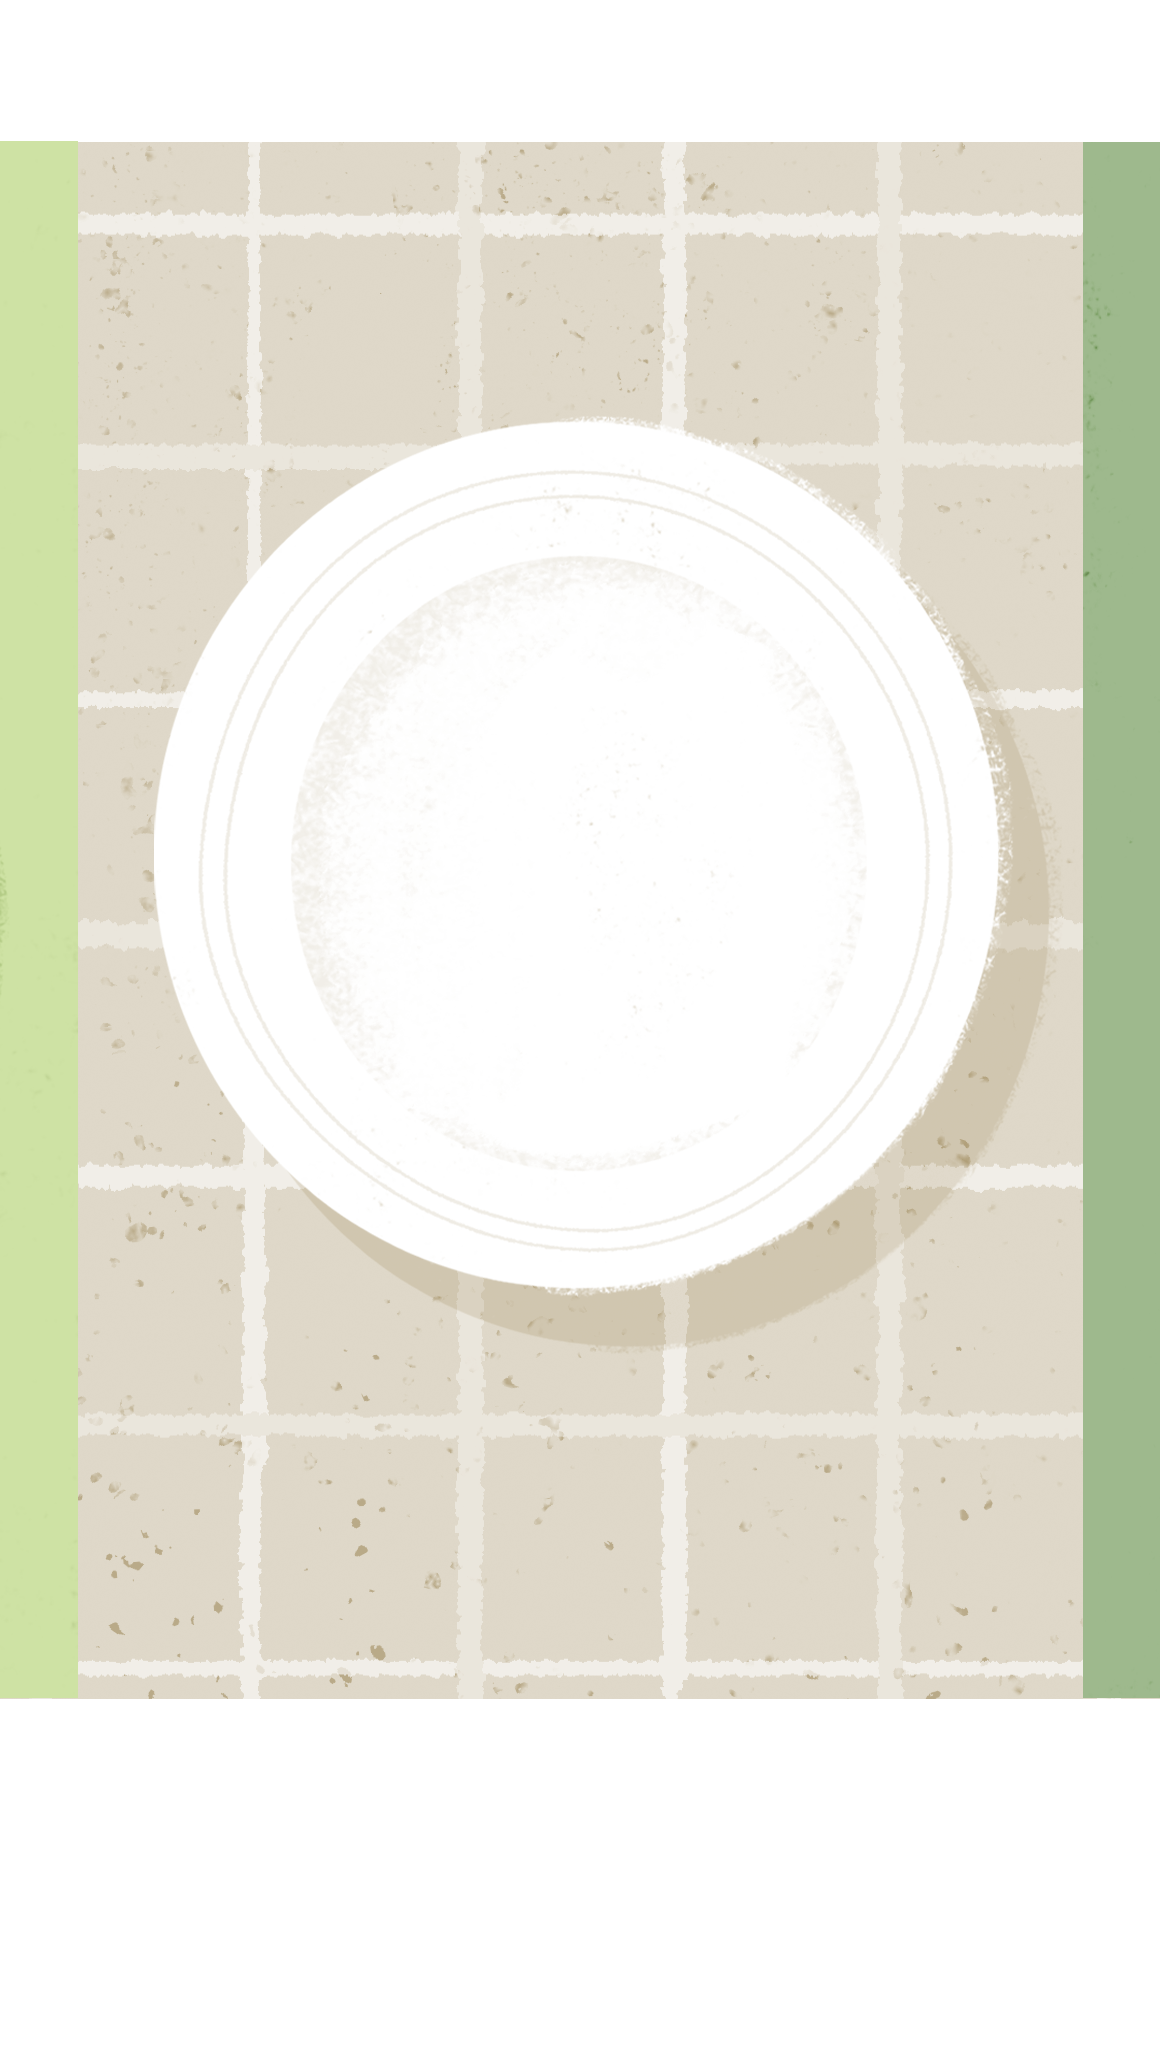
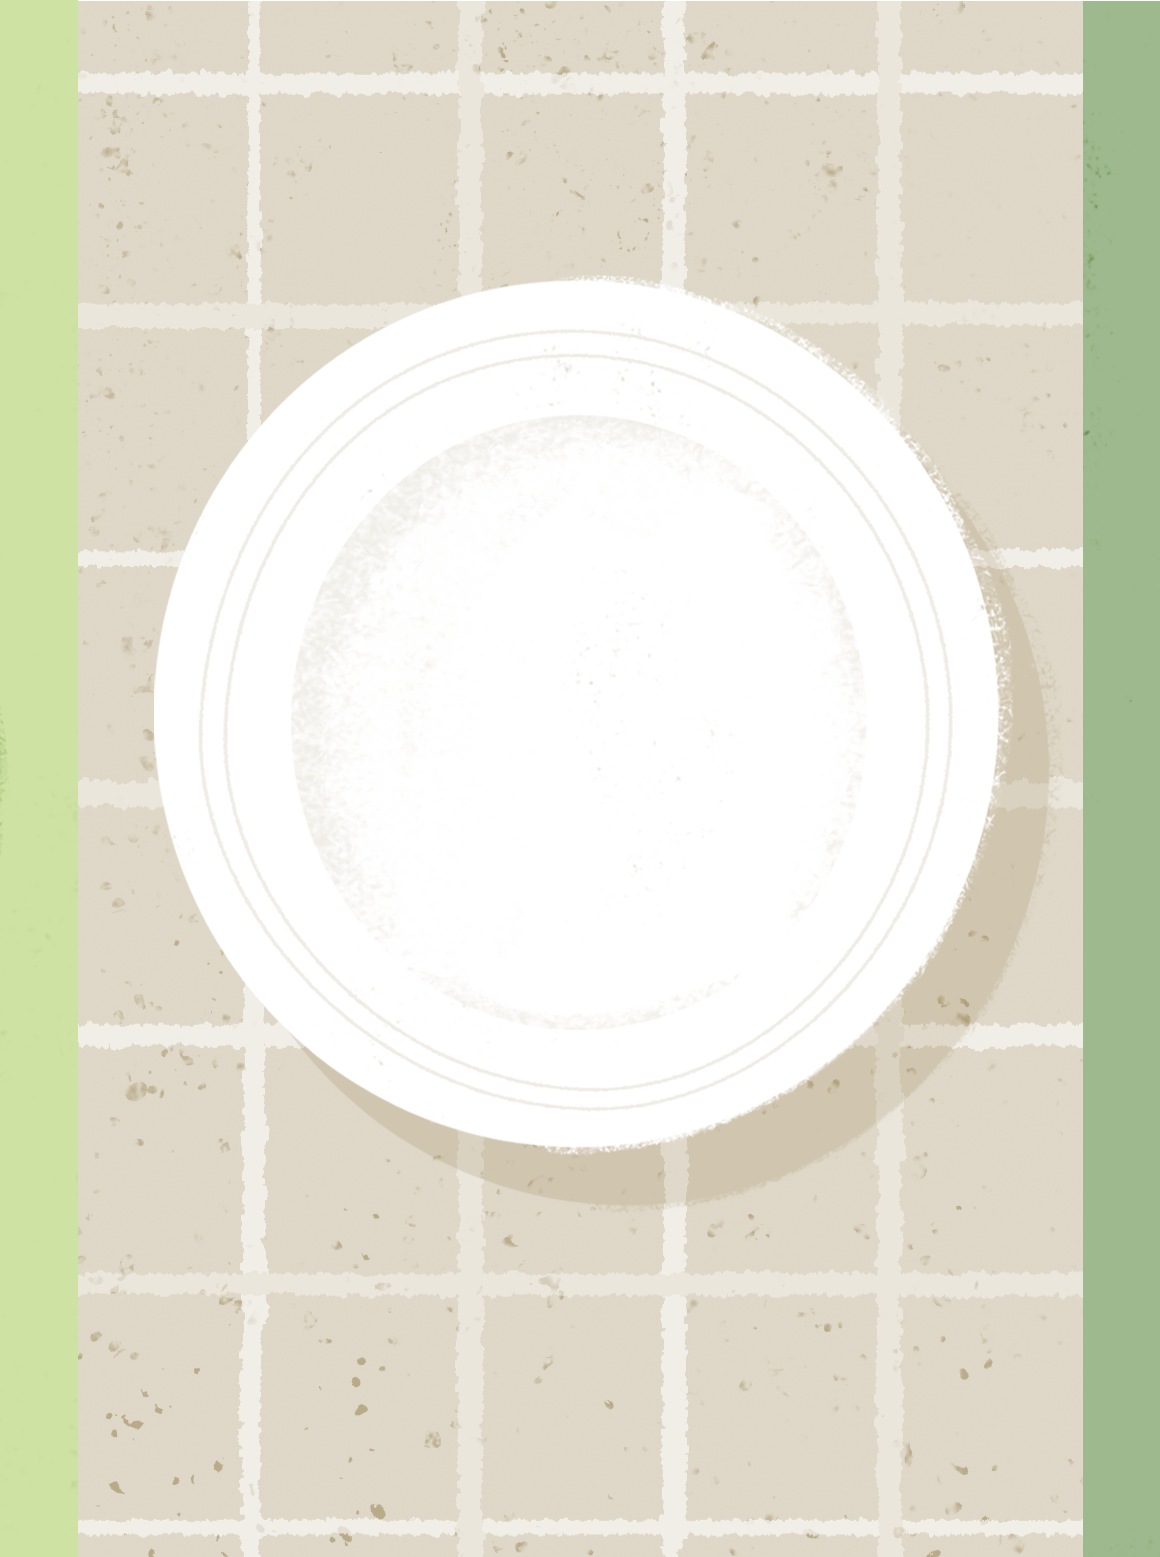
Cleaning up resources

diff --git a/FarmersCommon/Common/ToggleButton.qml b/FarmersCommon/Common/ToggleButton.qml
@@ -14,6 +14,7 @@ Item {
         width: _settings.toggleButtonWidth
         height: _settings.toggleButtonHeight
         color: _settings.ffToggleButtonUncheckedColor
+
         MouseArea {
             anchors.fill: parent
             onClicked: container.clicked()
@@ -26,6 +27,11 @@ Item {
         color: _settings.ffWhite
         anchors.right: parent.right
         anchors.verticalCenter: checkBox.verticalCenter
+
+        MouseArea {
+            anchors.fill: parent
+            onClicked: container.clicked()
+        }
     }
 
     // States:
@@ -37,5 +43,4 @@ Item {
             color: _settings.ffToggleButtonCheckedColor
         }
     }
-
 }

diff --git a/menuviewer/qml/pages/menu/PresentationPage.qml b/menuviewer/qml/pages/menu/PresentationPage.qml
@@ -173,6 +173,14 @@ PageTemplate {
                 }
             }
 
+            // Image place holder:
+            Image {
+                source: "qrc:/assets/ico-detailed_contents_placeholder.png"
+                anchors.top: currentVendItemName.bottom
+                anchors.topMargin: 8
+                anchors.horizontalCenter: parent.horizontalCenter
+            }
+
             // Add item to cart:
             ImageButton {
                 id: addItem

diff --git a/menuviewer/qml/PathItemView.qml b/menuviewer/qml/PathItemView.qml
@@ -69,7 +69,7 @@ PathView {
         height: pathView.height
         menuImageUrl: getMenuImageUrl()
         //nutritionFactImageUrl: Utils.urlPublicStatic(_appData.urlPublicRootValue, nutrition)
-        nutritionFactImageUrl: "qrc:/assets/ico-question.png"
+        nutritionFactImageUrl: "qrc:/assets/Carousel Images Empty Plate.png"
 
         // Show nutritional info:
         function onShowNutritionalInfo()

diff --git a/FarmersCommon/Common/Page.qml b/FarmersCommon/Common/Page.qml
@@ -1,13 +1,13 @@
 import QtQuick 2.5
 
 Rectangle {
-    color: "#F6F8F4"
+    color: _settings.ffIvoryLight
 
     // Page id:
     property string pageId
 
     // Idle time out (5 secs):
-    property int idleTimeOut: 50000
+    property int idleTimeOut: _settings.pageIdleTimeOut
 
     // Reserved area clicked:
     signal reservedAreaClicked()

diff --git a/menuviewer/qml/FlipableMenuImage.qml b/menuviewer/qml/FlipableMenuImage.qml
@@ -35,9 +35,8 @@ Flipable {
     back: Image {
         id: backImage
         cache: true
-        width: frontImage.width
-        height: frontImage.height
         fillMode: Image.PreserveAspectFit
+        height: frontImage.height
         anchors.centerIn: parent
         onStatusChanged: {
             if (status === Image.Error)

diff --git a/FarmersCommon/Common/Settings.qml b/FarmersCommon/Common/Settings.qml
@@ -25,6 +25,7 @@ Item {
     // Others:
     readonly property real footerRatio: .12
     readonly property real headerRatio: (footerRatio/2)*3
+	readonly property int pageIdleTimeOut: 50000
     readonly property int idlePageTimeOut: 3000
     readonly property int cartViewRowHeight: 234
     readonly property int toggleButtonWidth: 16

diff --git a/menuviewer/qml/pages/stock/StockPage.qml b/menuviewer/qml/pages/stock/StockPage.qml
@@ -7,6 +7,9 @@ PageTemplate {
     id: stockPage
     signal stopStockPagePrivate()
 
+    // Hide header:
+    headerVisible: false
+
     // Time out:
     function onIdleTimeOut()
     {
